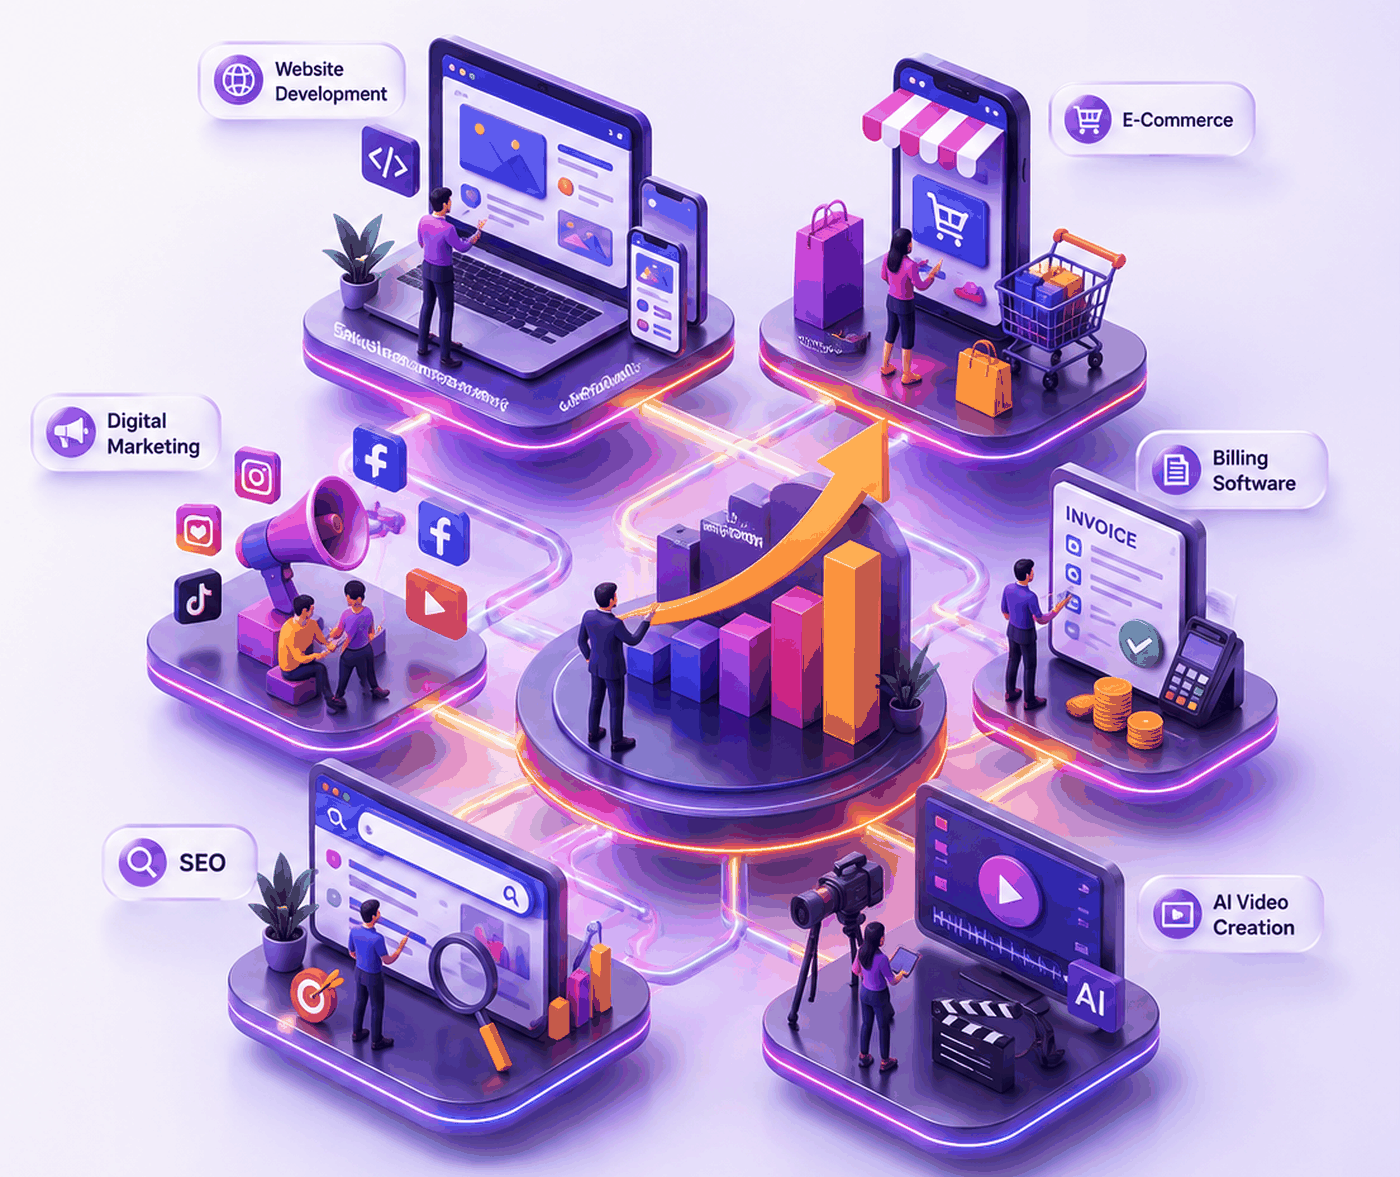
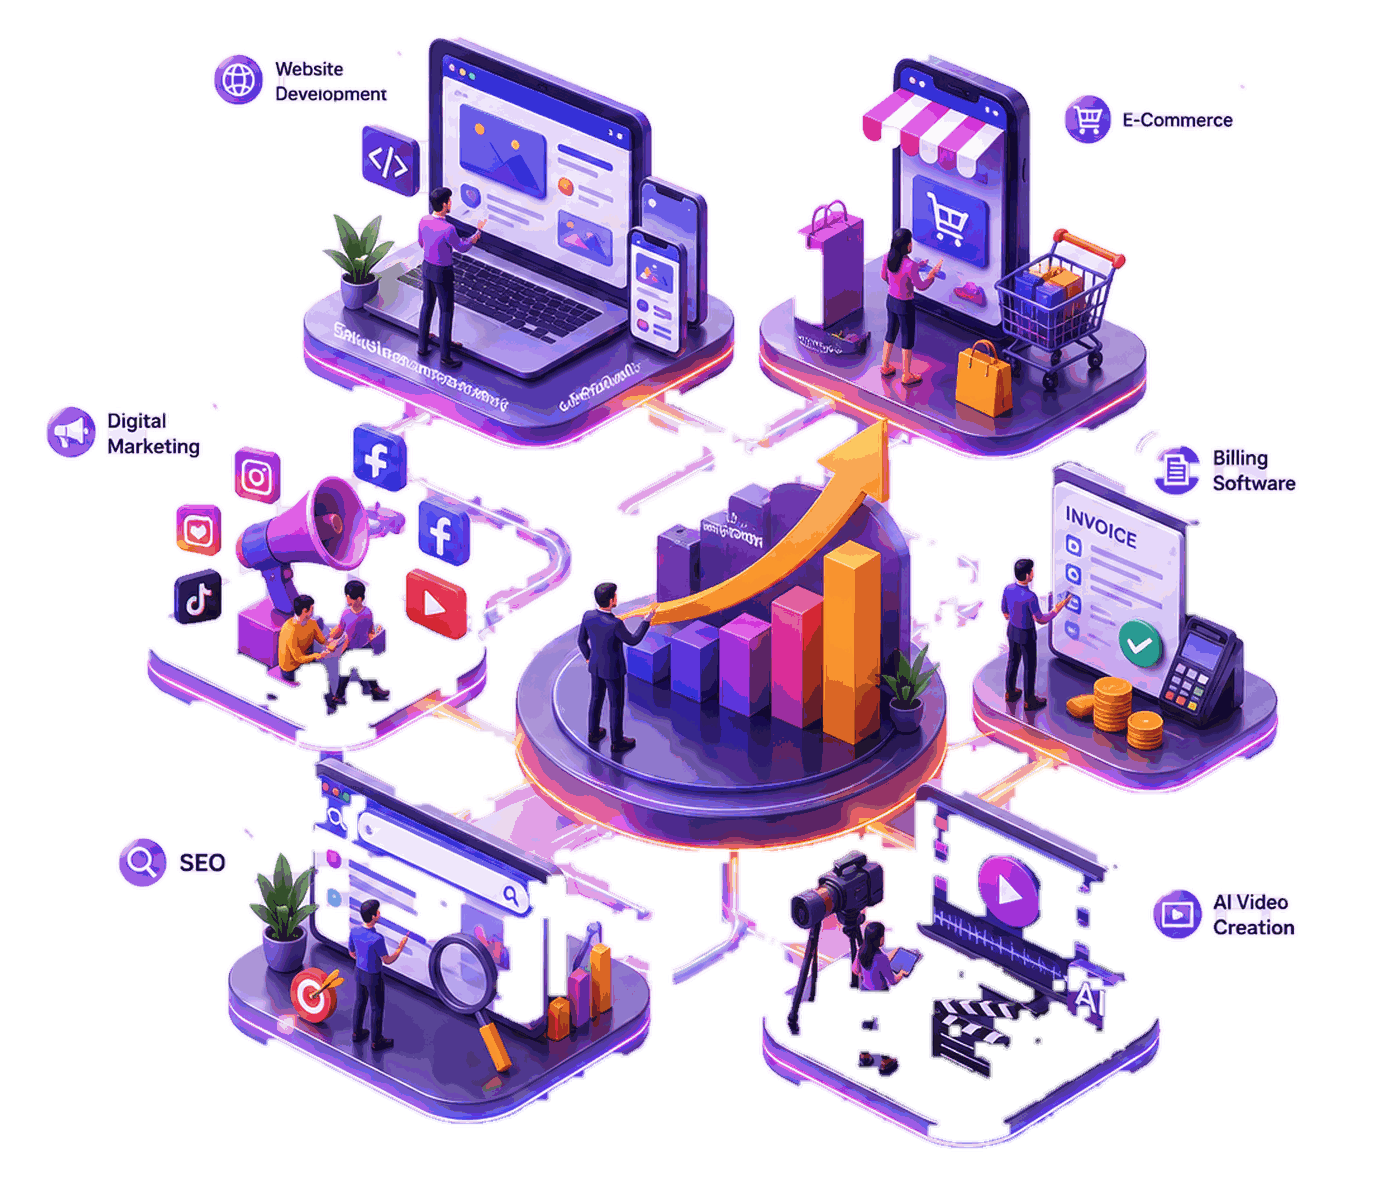
Fix hero image: remove background so it blends into page instead of showing as a boxed card

diff --git a/css/style.css b/css/style.css
@@ -301,8 +301,7 @@ nav.desknav a:hover::after{ width:100%; }
    ========================================================================== */
 .hero-ecosystem-img{
   position:relative; z-index:2; display:block; width:100%; height:auto;
-  border-radius:var(--r-lg);
-  filter:drop-shadow(0 30px 50px rgba(21,21,42,0.16));
+  filter:drop-shadow(0 24px 40px rgba(21,21,42,0.16));
   animation:card-fade-in .8s cubic-bezier(.16,.8,.24,1) both, hero-img-float 8s ease-in-out infinite;
 }
 @keyframes hero-img-float{ 0%,100%{ translate:0 0; } 50%{ translate:0 -12px; } }
